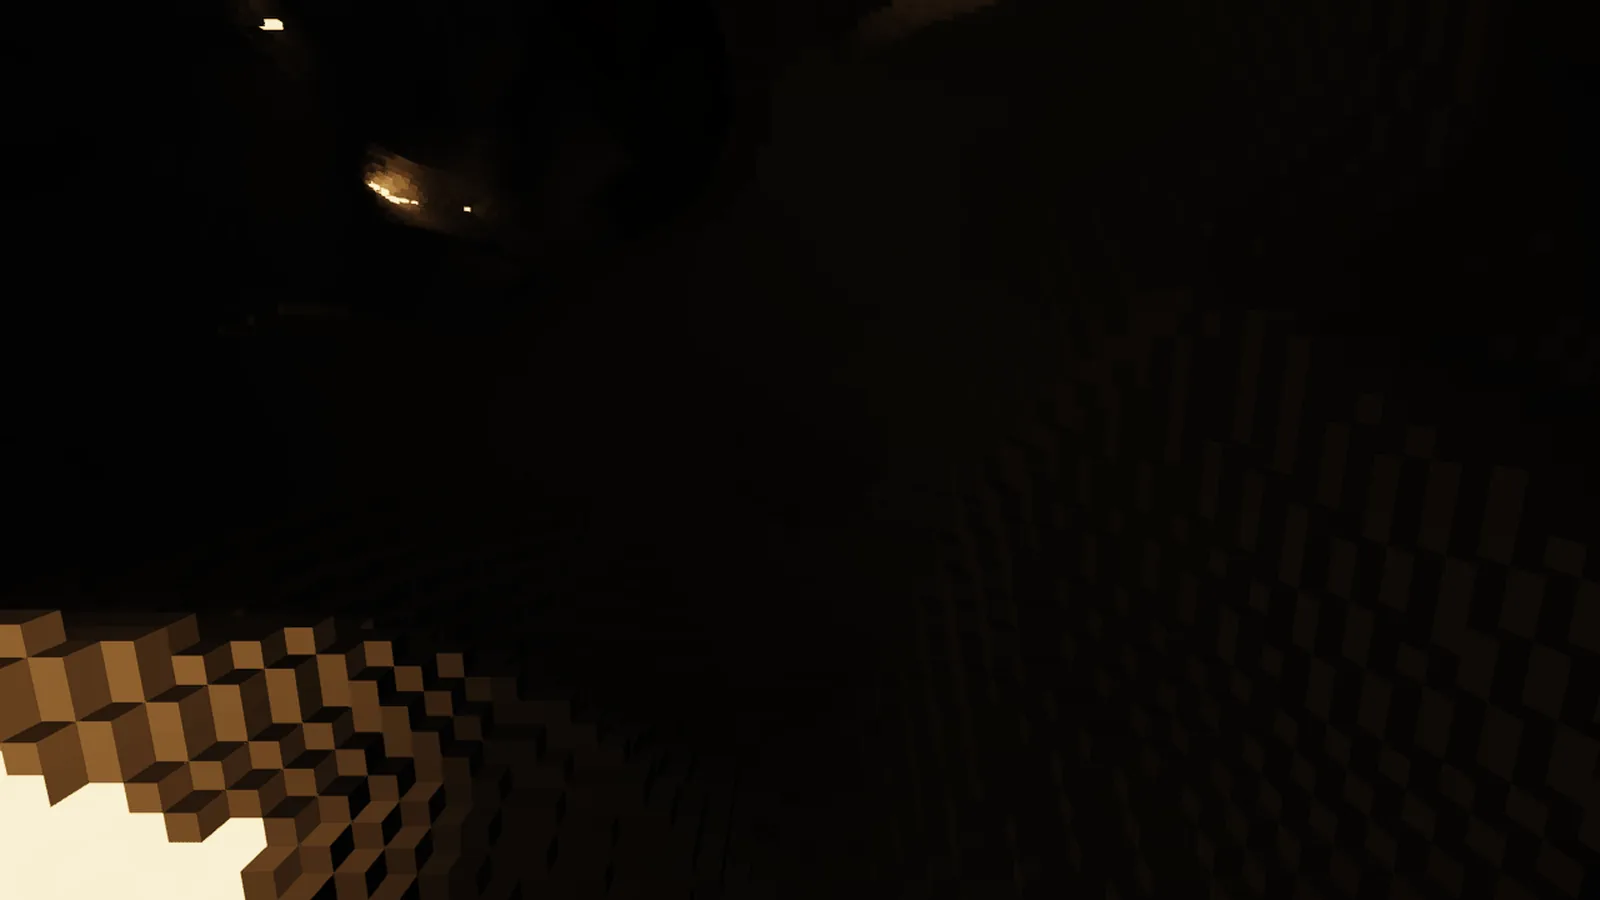
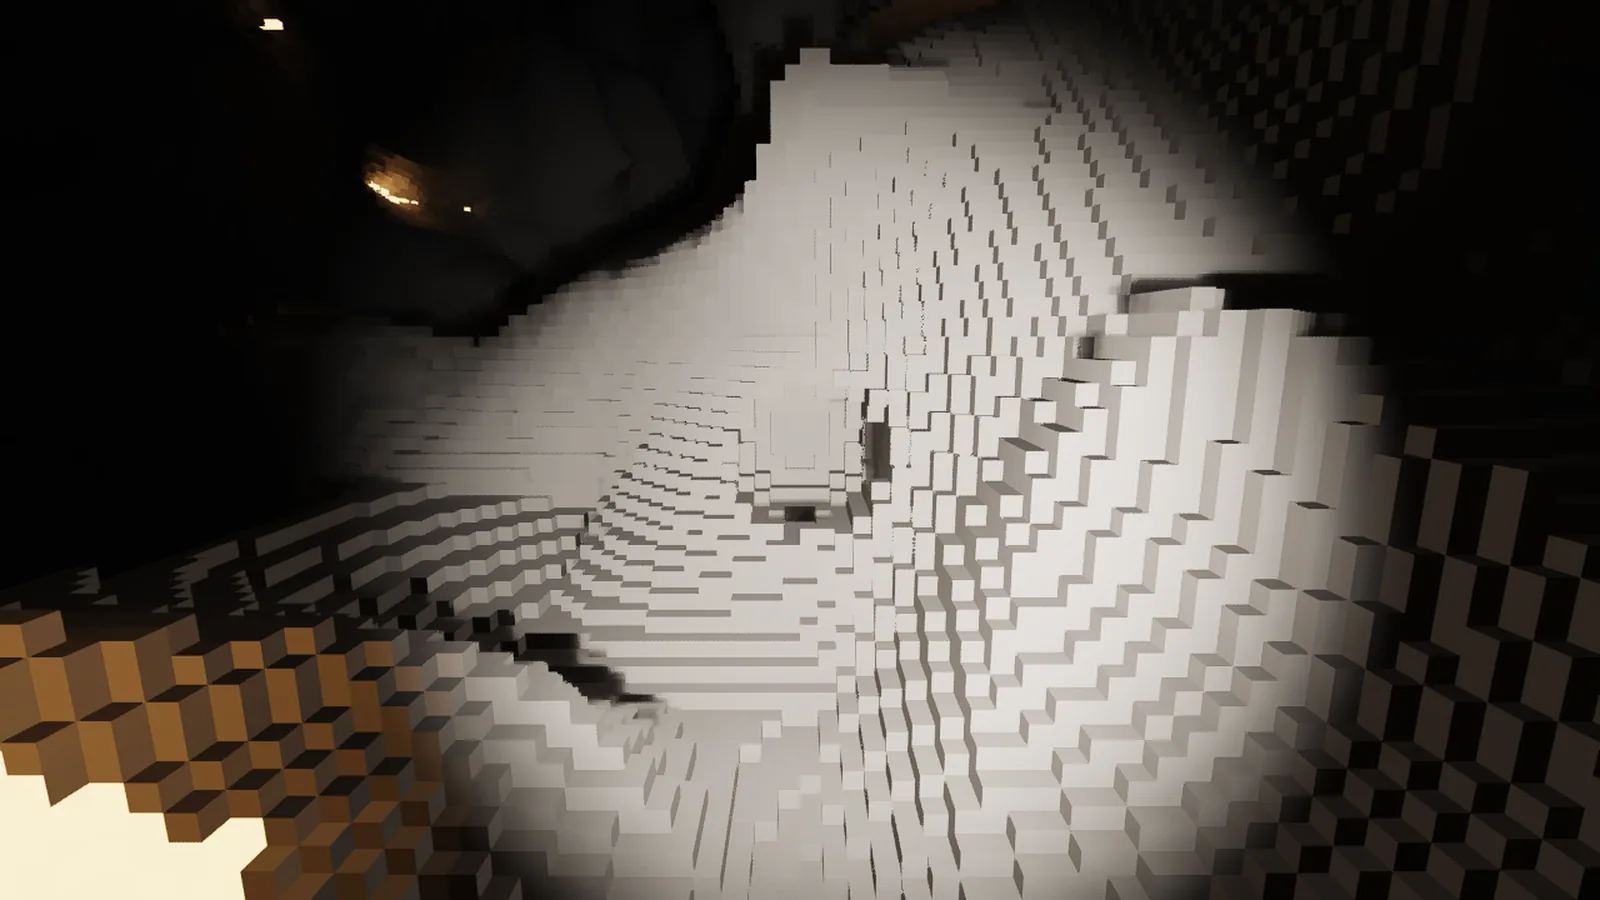
docs(images): the README's dig still with the headlamp on (owner's pick)
The dig entry takes candidate 3's pose with --lamp on, the owner's
pick (a) of 2026-11-27; candidate 4 (the lamp off) stays listed and
was the page's image from v0.79.1 until today. Still a still: the
flash read on the new flags overshoots the last frame by 1.236 against
0.003 between two renders. Noise set of thirteen renders (twelve in
one hold plus the check's), 78 pairs, largest 0.001062, tolerance
0.003 under a ceiling of 0.191 (yaw +2 reads 0.573407). The check
read 0.000000, exit 0. --pre-roll-stepped was tried and dropped: that
render ran past the script's 300 s timeout.

README alt text, caption and Try-it line follow the picture; one
CHANGELOG line; the backlog marks the dig correction done and keeps
the loop after Plan 0105 owed.

diff --git a/docs/backlog.md b/docs/backlog.md
@@ -1548,7 +1548,7 @@ From [Plan 0093](plans/done/0093-the-readme-rewrite-with-reproducible-screenshot
 
 From [Plan 0093](plans/done/0093-the-readme-rewrite-with-reproducible-screenshots-a-shot-manifest-a-shoot-script-and-an-image-gate.md) (its section "Amended 2026-11-26, late evening", G1 to G8; readings in `docs/plans/logs/0093.md`). The owner: "all good, just use what we have as images, merge and push. no need to wait for me. and tag". The plan closed without his confirmation of the re-shoots, without Plan 0105 and without Plan 0106's `--pre-roll-stepped`. What that left, none of it blocking:
 
-- **His corrections to the default picks.** `dig`, `walkers` and `castle` were picked by the dev against the plan's bars (the log's Phase 5d, with every tile's path and the candidate not taken). A correction is the entry's flags and `node scripts/shoot-images.mjs --only ID`.
+- **His corrections to the default picks.** `dig`, `walkers` and `castle` were picked by the dev against the plan's bars (the log's Phase 5d, with every tile's path and the candidate not taken). A correction is the entry's flags and `node scripts/shoot-images.mjs --only ID`. **`dig` done 2026-11-27** (the readme-dig chore): his "(a) Your candidate 3 with the lamp on", shot as a still with `--lamp on` and its noise set read again (the numbers are in the entry's `note`); `--pre-roll-stepped` was tried on it and dropped, since that render did not finish in the script's 300 s.
 - **His glance at the page on GitHub.** No command reads whether each loop plays in a browser, whether the title, the tagline and the whole hero show at a 1080p width without scrolling, how it reads on a phone, and the opening read aloud. A loop that shows as a still takes its entry's GIF `fallback`.
 - **The dig after Plan 0105.** The `dig` entry was shot on the dig before Plan 0105's default (a still of the settled dig instead of the loop if the log's Phase 5d read a flash). **Pick it up when** Plan 0105 is in main: `node scripts/shoot-images.mjs --only dig,skylight`, the loop back in place of a still, and the two entries' noise sets read again.
 - **The stepped pre-roll after Plan 0106. Ready since v0.79.0** (close review, 2026-11-27): `--pre-roll-stepped` was in the tree at the final shoot (main `cbedce57` merged), and the entries were shot without it as the plan's G2 ruled before the merge. It is the first follow-up to take: it may also make `walkers` judged. The `flythrough` entries shoot on `--settled-start` with the pre-roll's wall box, so the hero may hold the patch of the entry above ("A settled start's still differs in one patch"). **Pick it up when** the flag is in main: the entries take it, `validate` asks for it, and the hero's set and every entry marked `unjudged` in `docs/images/shots.json` (`node scripts/check-images.mjs` names them) are read again.
@@ -1557,7 +1557,7 @@ From [Plan 0093](plans/done/0093-the-readme-rewrite-with-reproducible-screenshot
 
 **What the close review saw on the page (2026-11-27), for him to correct:**
 
-- **`dig` does not show a dig.** The first feature image is a near-black frame: one over-bright ore corner at the lower left and two ore specks; no opening, no carved wall reads (mean luma 12 of 255 by the log's Phase 5b, whose own line says "the dig does not read"). It is his "dig 3 but no lamp", picked by the letter of the bar (rock reads in one corner). Its alt text and caption say what it is: almost black, the headlamp off. Raising the exposure does not help: `--exposure-comp 1` gives the same bytes, since the eye is at its ceiling. **The fallback** is candidate 3, the same pose with the headlamp on (`"flags"` of the `dig` entry with `--lamp on`, then `node scripts/shoot-images.mjs --only dig` and its noise set), or the loop once Plan 0105's default is in main (the bullet above).
+- **`dig` does not show a dig.** The first feature image is a near-black frame: one over-bright ore corner at the lower left and two ore specks; no opening, no carved wall reads (mean luma 12 of 255 by the log's Phase 5b, whose own line says "the dig does not read"). It is his "dig 3 but no lamp", picked by the letter of the bar (rock reads in one corner). Its alt text and caption say what it is: almost black, the headlamp off. Raising the exposure does not help: `--exposure-comp 1` gives the same bytes, since the eye is at its ceiling. **The fallback** is candidate 3, the same pose with the headlamp on (`"flags"` of the `dig` entry with `--lamp on`, then `node scripts/shoot-images.mjs --only dig` and its noise set), or the loop once Plan 0105's default is in main (the bullet above). **Done 2026-11-27 by the fallback** (the owner's pick): the page shows the dug cave lit by the headlamp, a still; the loop after Plan 0105 is still owed.
 - **`walkers` has no judged tolerance.** Twice its largest pair (0.014828) is over a third of its smallest wrong share (0.035982, the loop one frame late), so `--check` renders it and counts nothing. Accepted at the close: the size cap, the manifest row and the alt text are gated, and the picture is the picked one. The cause is the measure, not the still: the spider moves little from one frame to the next, so "one frame late" is nearly the same loop. **What would judge it:** a wrong picture scaled to the motion (the loop late by the number of frames at which its share passes three times the set's doubled pair; the yaw turned 2 degrees already reads 0.526575, which would give a tolerance of 0.02 under a ceiling of 0.175), an architect's ruling since the plan's G2 forbade swapping the wrong picture on the night; or a quieter set once the stepped pre-roll is on the entries.
 - **`walkers` reads as a spider standing among crystals.** At the first, middle and last frame its box moves by under 10 pixels of 1280; the legs step. The caption says "wandering". A pose or a frame range in which it crosses the frame would match the caption.
 - **`hud` shows a red and two yellow lines** (a 36.67 ms worst frame, the mirror at its full pressure, the light queue's line) and four lines run off the right edge at 1600 px. It is the overlay as it is; a shot after the start-up frames would read calmer.

diff --git a/README.md b/README.md
@@ -144,14 +144,14 @@ For a full loop with streaming, creatures, lights and sound, read [the fly-throu
 - Integer math: the same edits give identical voxels on Linux and Windows.
 - Unsupported rock falls as one piece or crumbles to rubble.
 
-![A cave dug open by a sphere, almost black, the stepped rock at the lower left lit amber by an ore](docs/images/dig.webp)
+![A cave dug open by a sphere, its stepped rock walls lit pale by the headlamp](docs/images/dig.webp)
 
-<sub>A dug cave with its light settled, the headlamp off.</sub>
+<sub>A dug cave lit by the headlamp, its light settled.</sub>
 
 Try it:
 
 ```sh
-cargo run --release -p flythrough -- --source cave --dig-at 40 --eye 32,32,32,180,-10 --lamp off
+cargo run --release -p flythrough -- --source cave --dig-at 40 --eye 32,32,32,180,-10
 ```
 
 ### Rendering

diff --git a/CHANGELOG.md b/CHANGELOG.md
@@ -7,6 +7,7 @@ SemVer 0.x (any minor may break the API until 1.0).
 ## [Unreleased]
 
 - **Fixed (harness): `scripts/shoot-images.test.mjs` passes on Windows; the relative paths `scripts/shoot-images.mjs` makes (its test's walk of `docs/images/`, the contact sheet, the index's hrefs, a render's log) are joined with `/` on every platform (`relPosix`), so a walked `light\x.png` matches the manifest's `light/x.png` (the images-windows chore).**
+- **Changed (docs): the README's `dig` image is the owner's pick, the same pose with the headlamp on** (the near-black lamp-off frame of 0.79.1 stays in the manifest as candidate 4); still a still, its noise set and tolerance read again (the readme-dig chore).
 
 ## [0.79.1] - 2026-11-27
 
